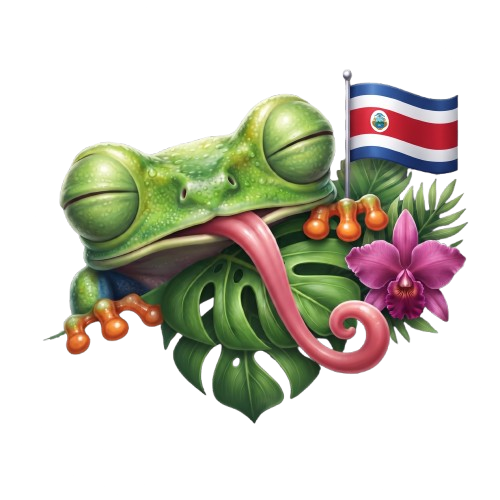
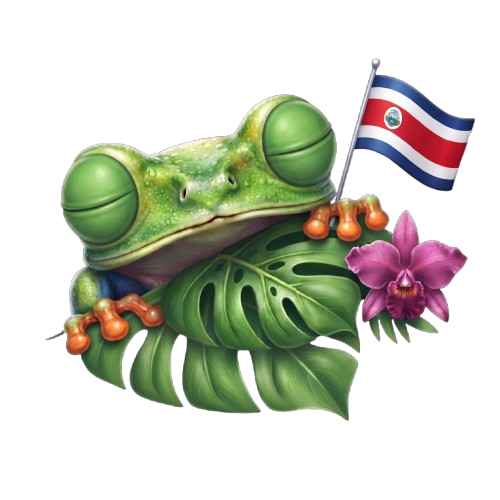
trsstry

diff --git a/src/components/global-header.tsx b/src/components/global-header.tsx
@@ -268,7 +268,7 @@ export function GlobalHeader() {
           <IconButton
             accessibilityLabel={isSpanish ? 'Abrir brújula y mapa' : 'Open compass and map'}
             className="overflow-hidden"
-            icon={<View className="relative h-full w-full items-center justify-center overflow-hidden rounded-full"><Image contentFit="contain" source={require('@/assets/iconos propios/brujula.png')} style={{ height: 38, transform: [{ translateY: -3 }], width: 38 }} /><AnimatedShine travel={60} /></View>}
+            icon={<View className="relative h-full w-full items-center justify-center overflow-hidden rounded-full"><Image contentFit="contain" source={require('@/assets/iconos propios/brujula2.png')} style={{ height: 38, transform: [{ translateY: -3 }], width: 38 }} /><AnimatedShine travel={60} /></View>}
             onPress={() => router.push('/compass')}
             size="sm"
           />
